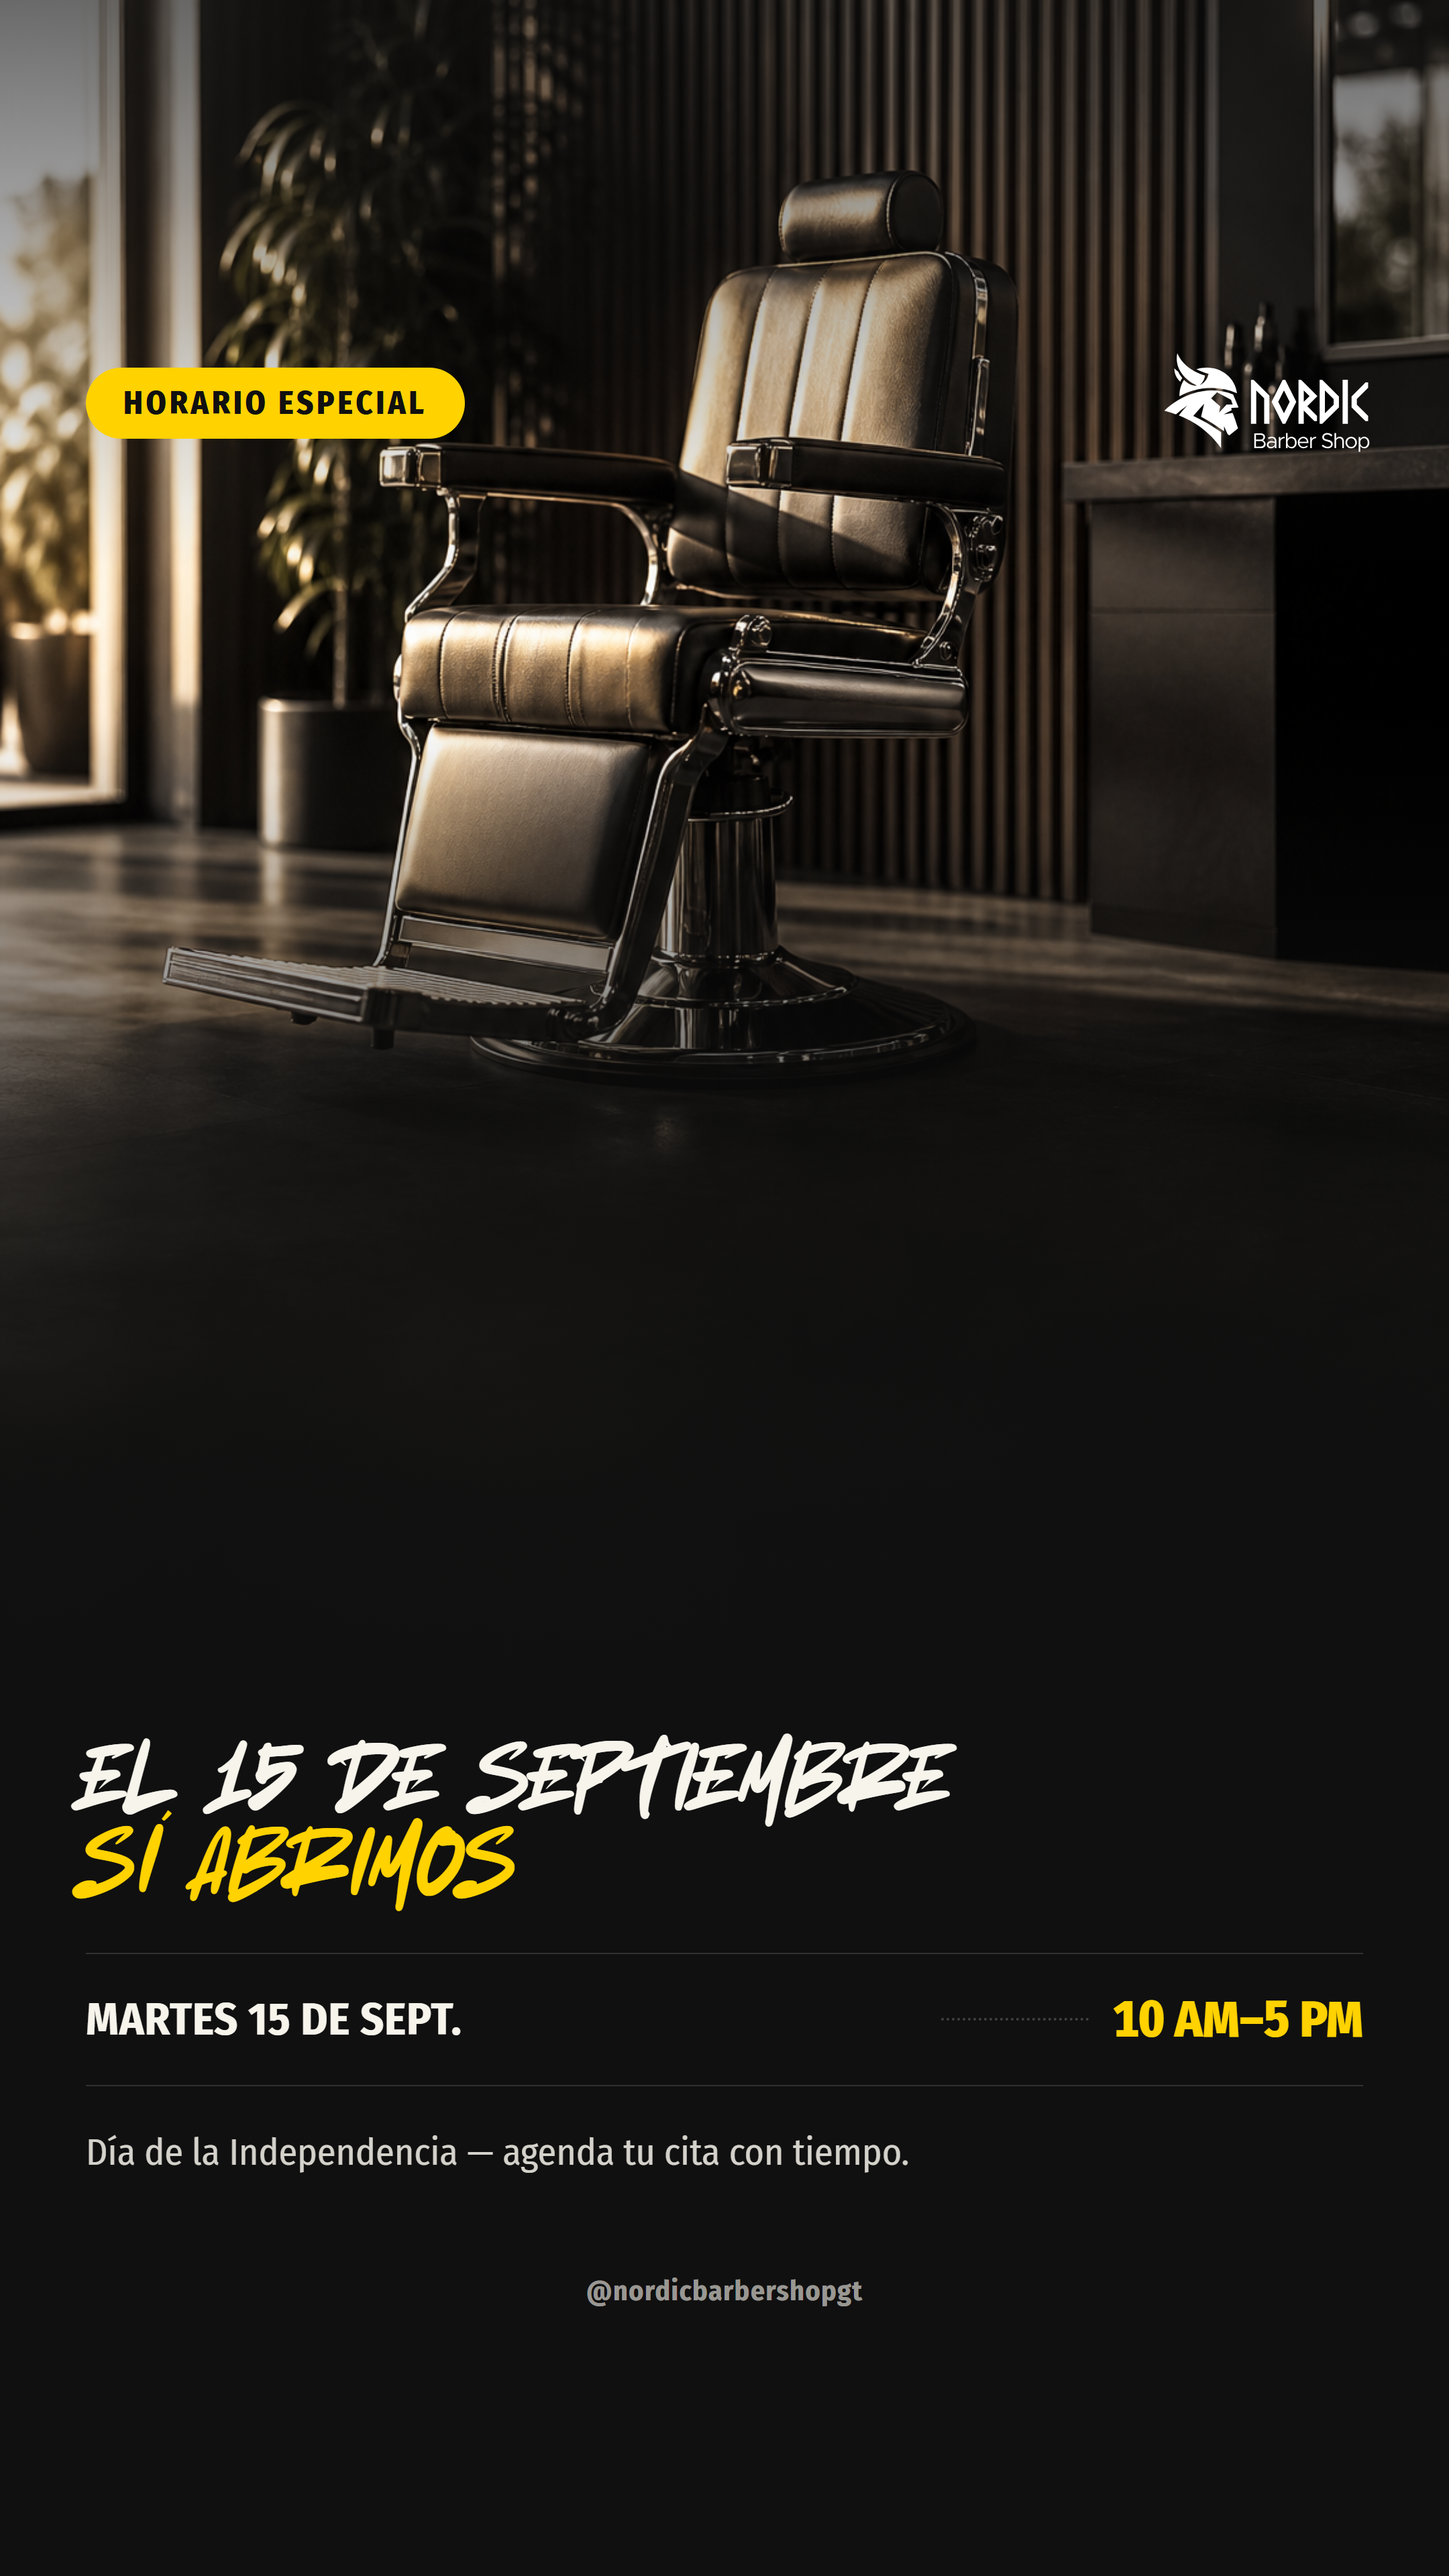
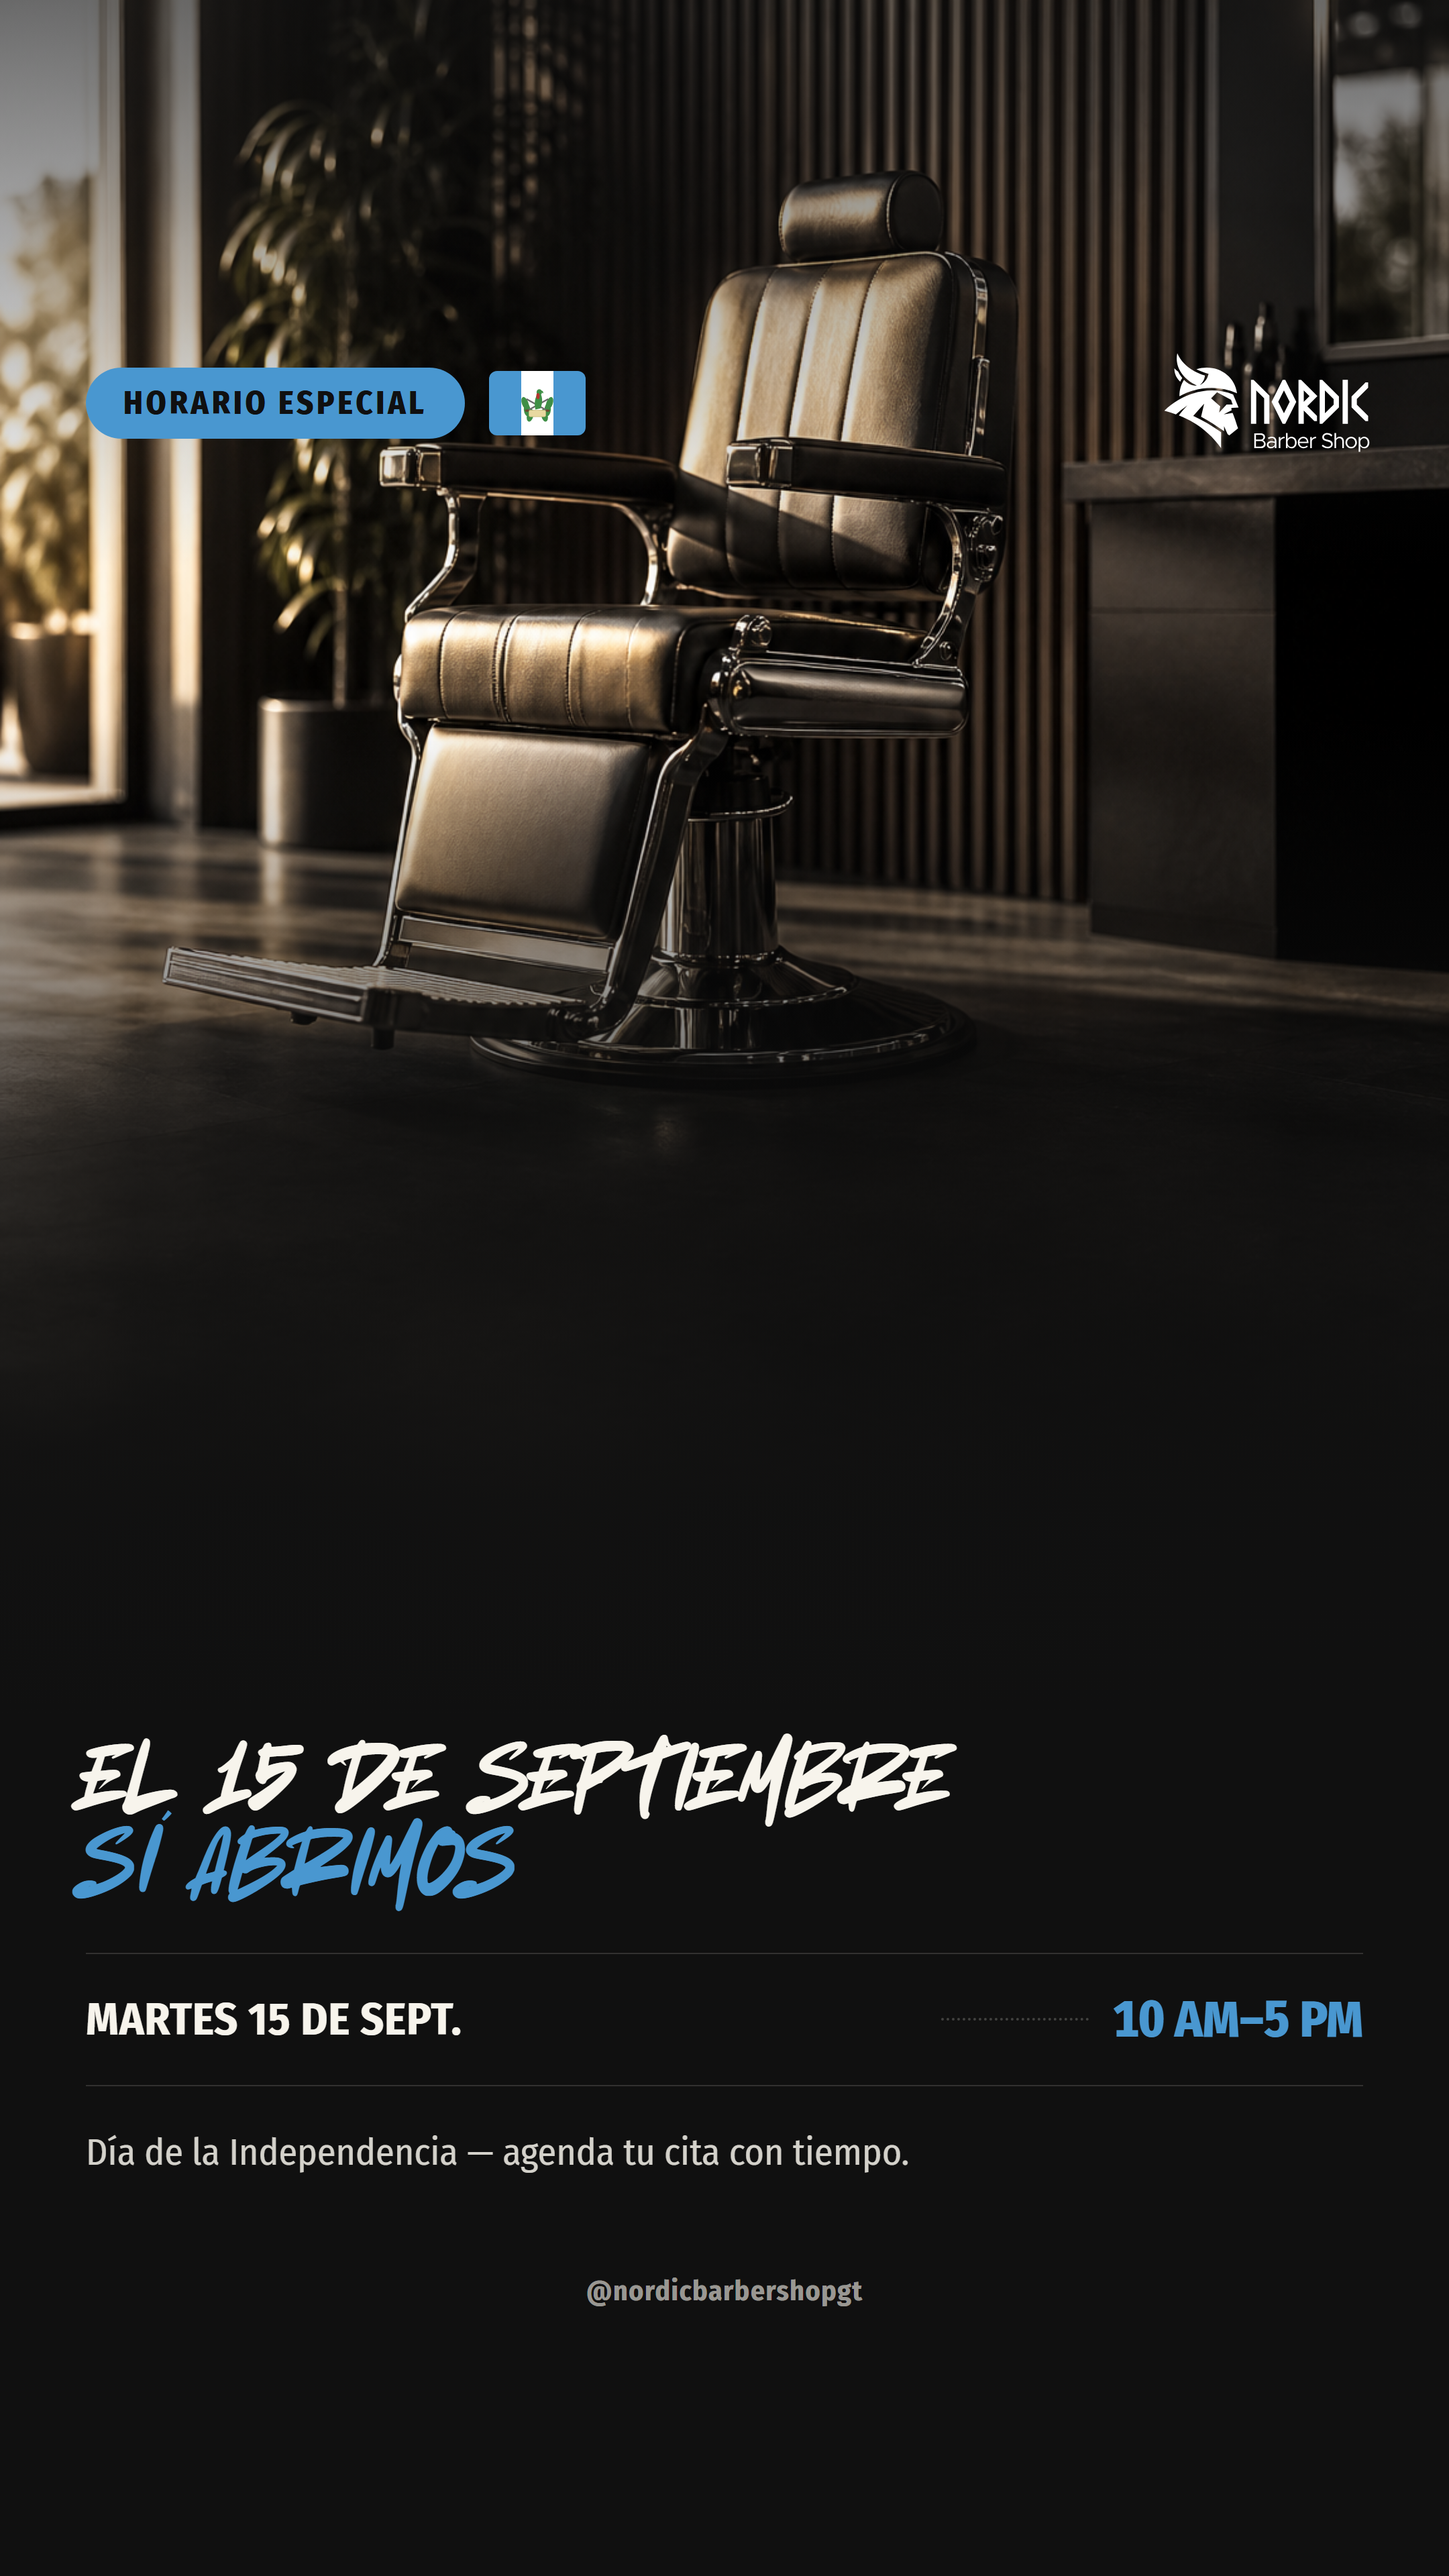
Add Independence Day flag badge to horario especial 15 de septiembre post
Restores the original v1 duotono/gold background (a prior session had
started regenerating it and left assets/bg*.png missing). Adds a small
inline-SVG Guatemalan flag chip next to the "Horario especial" pill and
swaps the accent color from gold to the flag's celeste (#4997D0) on the
pill, headline highlight, and hours time -- the barbershop photo itself
is untouched, per feedback that only the flag and letter colors should
change, not the scene.

Changed region(s): [[0.062, 0.125, 0.4032, 0.1875], [0.062, 0.6875, 0.3722, 0.75], [0.7755, 0.75, 0.9306, 0.8125]]

diff --git a/posts/instagram/horario-especial-15-septiembre/index-story.html b/posts/instagram/horario-especial-15-septiembre/index-story.html
@@ -32,6 +32,7 @@
     --bone:#F7F4EC;
     --steel:rgba(247,244,236,.62);
     --steel-dim:rgba(247,244,236,.28);
+    --celeste:#4997D0; /* azul de la bandera de Guatemala -- excepcion de marca deliberada, ver copy.json build_method */
   }
 
   *{box-sizing:border-box;margin:0;padding:0;}
@@ -75,11 +76,16 @@
     height:80px;
   }
 
-  /* Pill — bajo la zona segura superior de Instagram */
-  .pill{
+  /* Fila superior: pill + bandera — bajo la zona segura superior de Instagram */
+  .eyebrow-row{
     position:absolute;
     top:274px;left:64px;
-    background:var(--gold);
+    display:flex;
+    align-items:center;
+    gap:18px;
+  }
+  .pill{
+    background:var(--celeste);
     color:var(--ink);
     font-family:"Fira Sans Condensed";
     font-weight:800;
@@ -88,6 +94,13 @@
     text-transform:uppercase;
     padding:12px 28px;
     border-radius:40px;
+  }
+  .flag-badge{
+    height:48px;
+    width:auto;
+    display:block;
+    border-radius:6px;
+    box-shadow:0 2px 8px rgba(0,0,0,.35);
   }
 
   /* Todo el copy anclado al fondo, con espacio para la barra de respuesta */
@@ -106,7 +119,7 @@
     color:var(--bone);
     margin-bottom:30px;
   }
-  .headline .hl{color:var(--gold);}
+  .headline .hl{color:var(--celeste);}
 
   /* Fila de horario — el ancla visual del layout */
   .hours{
@@ -139,7 +152,7 @@
     font-weight:800;
     font-size:38px;
     letter-spacing:0;
-    color:var(--gold);
+    color:var(--celeste);
     font-feature-settings:"tnum" 1;
   }
 
@@ -175,7 +188,37 @@
   <div class="scrim-bottom"></div>
 
   <img class="logo" src="../../../logo-variations/Nordic-BarberShop-logo-white.svg" alt="Nordic Barber Shop">
-  <div class="pill">Horario especial</div>
+
+  <div class="eyebrow-row">
+    <div class="pill">Horario especial</div>
+    <svg class="flag-badge" viewBox="0 0 150 100" xmlns="http://www.w3.org/2000/svg" role="img" aria-label="Bandera de Guatemala">
+      <rect x="0" y="0" width="150" height="100" fill="#4997D0"/>
+      <rect x="50" y="0" width="50" height="100" fill="#FFFFFF"/>
+      <g transform="translate(75,52)">
+        <g fill="#3F8F46">
+          <ellipse cx="-19" cy="-2" rx="5" ry="10" transform="rotate(-20 -19 -2)"/>
+          <ellipse cx="-16" cy="8" rx="5" ry="10" transform="rotate(-5 -16 8)"/>
+          <ellipse cx="-11" cy="17" rx="5" ry="10" transform="rotate(15 -11 17)"/>
+          <ellipse cx="19" cy="-2" rx="5" ry="10" transform="rotate(20 19 -2)"/>
+          <ellipse cx="16" cy="8" rx="5" ry="10" transform="rotate(5 16 8)"/>
+          <ellipse cx="11" cy="17" rx="5" ry="10" transform="rotate(-15 11 17)"/>
+        </g>
+        <g stroke="#6B6B6B" stroke-width="2.4" stroke-linecap="round">
+          <line x1="-16" y1="10" x2="16" y2="-8"/>
+          <line x1="-16" y1="-8" x2="16" y2="10"/>
+        </g>
+        <g fill="#6B4A2E">
+          <rect x="-19" y="8" width="6" height="3.2" rx="1"/>
+          <rect x="13" y="8" width="6" height="3.2" rx="1"/>
+        </g>
+        <rect x="-13" y="9" width="26" height="10" rx="2" fill="#E8D9A0" stroke="#C9B87A" stroke-width="0.8"/>
+        <path d="M -3 8 C -6 -6, -2 -14, 3 -20 C 8 -14, 9 -4, 5 6 Z" fill="#3F8F46"/>
+        <ellipse cx="3" cy="-19" rx="4.2" ry="4.6" fill="#3F8F46"/>
+        <path d="M 5 -21 C 8 -22, 10 -20, 9 -17 C 7.5 -18.5, 6 -19, 5 -21 Z" fill="#3F8F46"/>
+        <ellipse cx="1" cy="-13" rx="2.6" ry="4.6" fill="#B5342D"/>
+      </g>
+    </svg>
+  </div>
 
   <div class="content">
 

diff --git a/posts/instagram/horario-especial-15-septiembre/index.html b/posts/instagram/horario-especial-15-septiembre/index.html
@@ -32,6 +32,7 @@
     --bone:#F7F4EC;
     --steel:rgba(247,244,236,.62);
     --steel-dim:rgba(247,244,236,.28);
+    --celeste:#4997D0; /* azul de la bandera de Guatemala -- excepcion de marca deliberada, ver copy.json build_method */
   }
 
   *{box-sizing:border-box;margin:0;padding:0;}
@@ -75,11 +76,16 @@
     height:80px;
   }
 
-  /* Pill top-left */
-  .pill{
+  /* Fila superior: pill + bandera, top-left */
+  .eyebrow-row{
     position:absolute;
     top:64px;left:64px;
-    background:var(--gold);
+    display:flex;
+    align-items:center;
+    gap:18px;
+  }
+  .pill{
+    background:var(--celeste);
     color:var(--ink);
     font-family:"Fira Sans Condensed";
     font-weight:800;
@@ -88,6 +94,13 @@
     text-transform:uppercase;
     padding:12px 28px;
     border-radius:40px;
+  }
+  .flag-badge{
+    height:48px;
+    width:auto;
+    display:block;
+    border-radius:6px;
+    box-shadow:0 2px 8px rgba(0,0,0,.35);
   }
 
   /* Todo el copy anclado al fondo, con espacio reservado para el footer */
@@ -106,7 +119,7 @@
     color:var(--bone);
     margin-bottom:30px;
   }
-  .headline .hl{color:var(--gold);}
+  .headline .hl{color:var(--celeste);}
 
   /* Fila de horario — el ancla visual del layout */
   .hours{
@@ -139,7 +152,7 @@
     font-weight:800;
     font-size:38px;
     letter-spacing:0;
-    color:var(--gold);
+    color:var(--celeste);
     font-feature-settings:"tnum" 1;
   }
 
@@ -175,7 +188,37 @@
   <div class="scrim-bottom"></div>
 
   <img class="logo" src="../../../logo-variations/Nordic-BarberShop-logo-white.svg" alt="Nordic Barber Shop">
-  <div class="pill">Horario especial</div>
+
+  <div class="eyebrow-row">
+    <div class="pill">Horario especial</div>
+    <svg class="flag-badge" viewBox="0 0 150 100" xmlns="http://www.w3.org/2000/svg" role="img" aria-label="Bandera de Guatemala">
+      <rect x="0" y="0" width="150" height="100" fill="#4997D0"/>
+      <rect x="50" y="0" width="50" height="100" fill="#FFFFFF"/>
+      <g transform="translate(75,52)">
+        <g fill="#3F8F46">
+          <ellipse cx="-19" cy="-2" rx="5" ry="10" transform="rotate(-20 -19 -2)"/>
+          <ellipse cx="-16" cy="8" rx="5" ry="10" transform="rotate(-5 -16 8)"/>
+          <ellipse cx="-11" cy="17" rx="5" ry="10" transform="rotate(15 -11 17)"/>
+          <ellipse cx="19" cy="-2" rx="5" ry="10" transform="rotate(20 19 -2)"/>
+          <ellipse cx="16" cy="8" rx="5" ry="10" transform="rotate(5 16 8)"/>
+          <ellipse cx="11" cy="17" rx="5" ry="10" transform="rotate(-15 11 17)"/>
+        </g>
+        <g stroke="#6B6B6B" stroke-width="2.4" stroke-linecap="round">
+          <line x1="-16" y1="10" x2="16" y2="-8"/>
+          <line x1="-16" y1="-8" x2="16" y2="10"/>
+        </g>
+        <g fill="#6B4A2E">
+          <rect x="-19" y="8" width="6" height="3.2" rx="1"/>
+          <rect x="13" y="8" width="6" height="3.2" rx="1"/>
+        </g>
+        <rect x="-13" y="9" width="26" height="10" rx="2" fill="#E8D9A0" stroke="#C9B87A" stroke-width="0.8"/>
+        <path d="M -3 8 C -6 -6, -2 -14, 3 -20 C 8 -14, 9 -4, 5 6 Z" fill="#3F8F46"/>
+        <ellipse cx="3" cy="-19" rx="4.2" ry="4.6" fill="#3F8F46"/>
+        <path d="M 5 -21 C 8 -22, 10 -20, 9 -17 C 7.5 -18.5, 6 -19, 5 -21 Z" fill="#3F8F46"/>
+        <ellipse cx="1" cy="-13" rx="2.6" ry="4.6" fill="#B5342D"/>
+      </g>
+    </svg>
+  </div>
 
   <div class="content">
 

diff --git a/index.html b/index.html
@@ -476,7 +476,7 @@ const POSTS = [
     title:'Horario especial: 15 de septiembre',
     label:'Horario especial',
     cover:'posts/instagram/horario-especial-15-septiembre/00-portada.png',
-    alt:'Horario especial Nordic Barber Shop: silla de barbero vacía en interior moderno duotono con luz dorada — el 15 de septiembre sí abrimos, martes 10 AM a 5 PM por el Día de la Independencia',
+    alt:'Horario especial Nordic Barber Shop: silla de barbero vacía en interior moderno duotono con luz dorada, pill "Horario especial" junto a una pequeña bandera de Guatemala y acentos en celeste — el 15 de septiembre sí abrimos, martes 10 AM a 5 PM por el Día de la Independencia',
     copyJson:'posts/instagram/horario-especial-15-septiembre/copy.json',
     file:'00-portada.png'
   },
@@ -487,7 +487,7 @@ const POSTS = [
     title:'Horario especial: 15 de septiembre',
     label:'Versión: Story',
     cover:'posts/instagram/horario-especial-15-septiembre/00-story.png',
-    alt:'Horario especial Nordic Barber Shop: silla de barbero vacía en interior moderno duotono con luz dorada — el 15 de septiembre sí abrimos, martes 10 AM a 5 PM por el Día de la Independencia, versión Story',
+    alt:'Horario especial Nordic Barber Shop: silla de barbero vacía en interior moderno duotono con luz dorada, pill "Horario especial" junto a una pequeña bandera de Guatemala y acentos en celeste — el 15 de septiembre sí abrimos, martes 10 AM a 5 PM por el Día de la Independencia, versión Story',
     copyJson:'posts/instagram/horario-especial-15-septiembre/copy.json',
     file:'00-story.png'
   },
